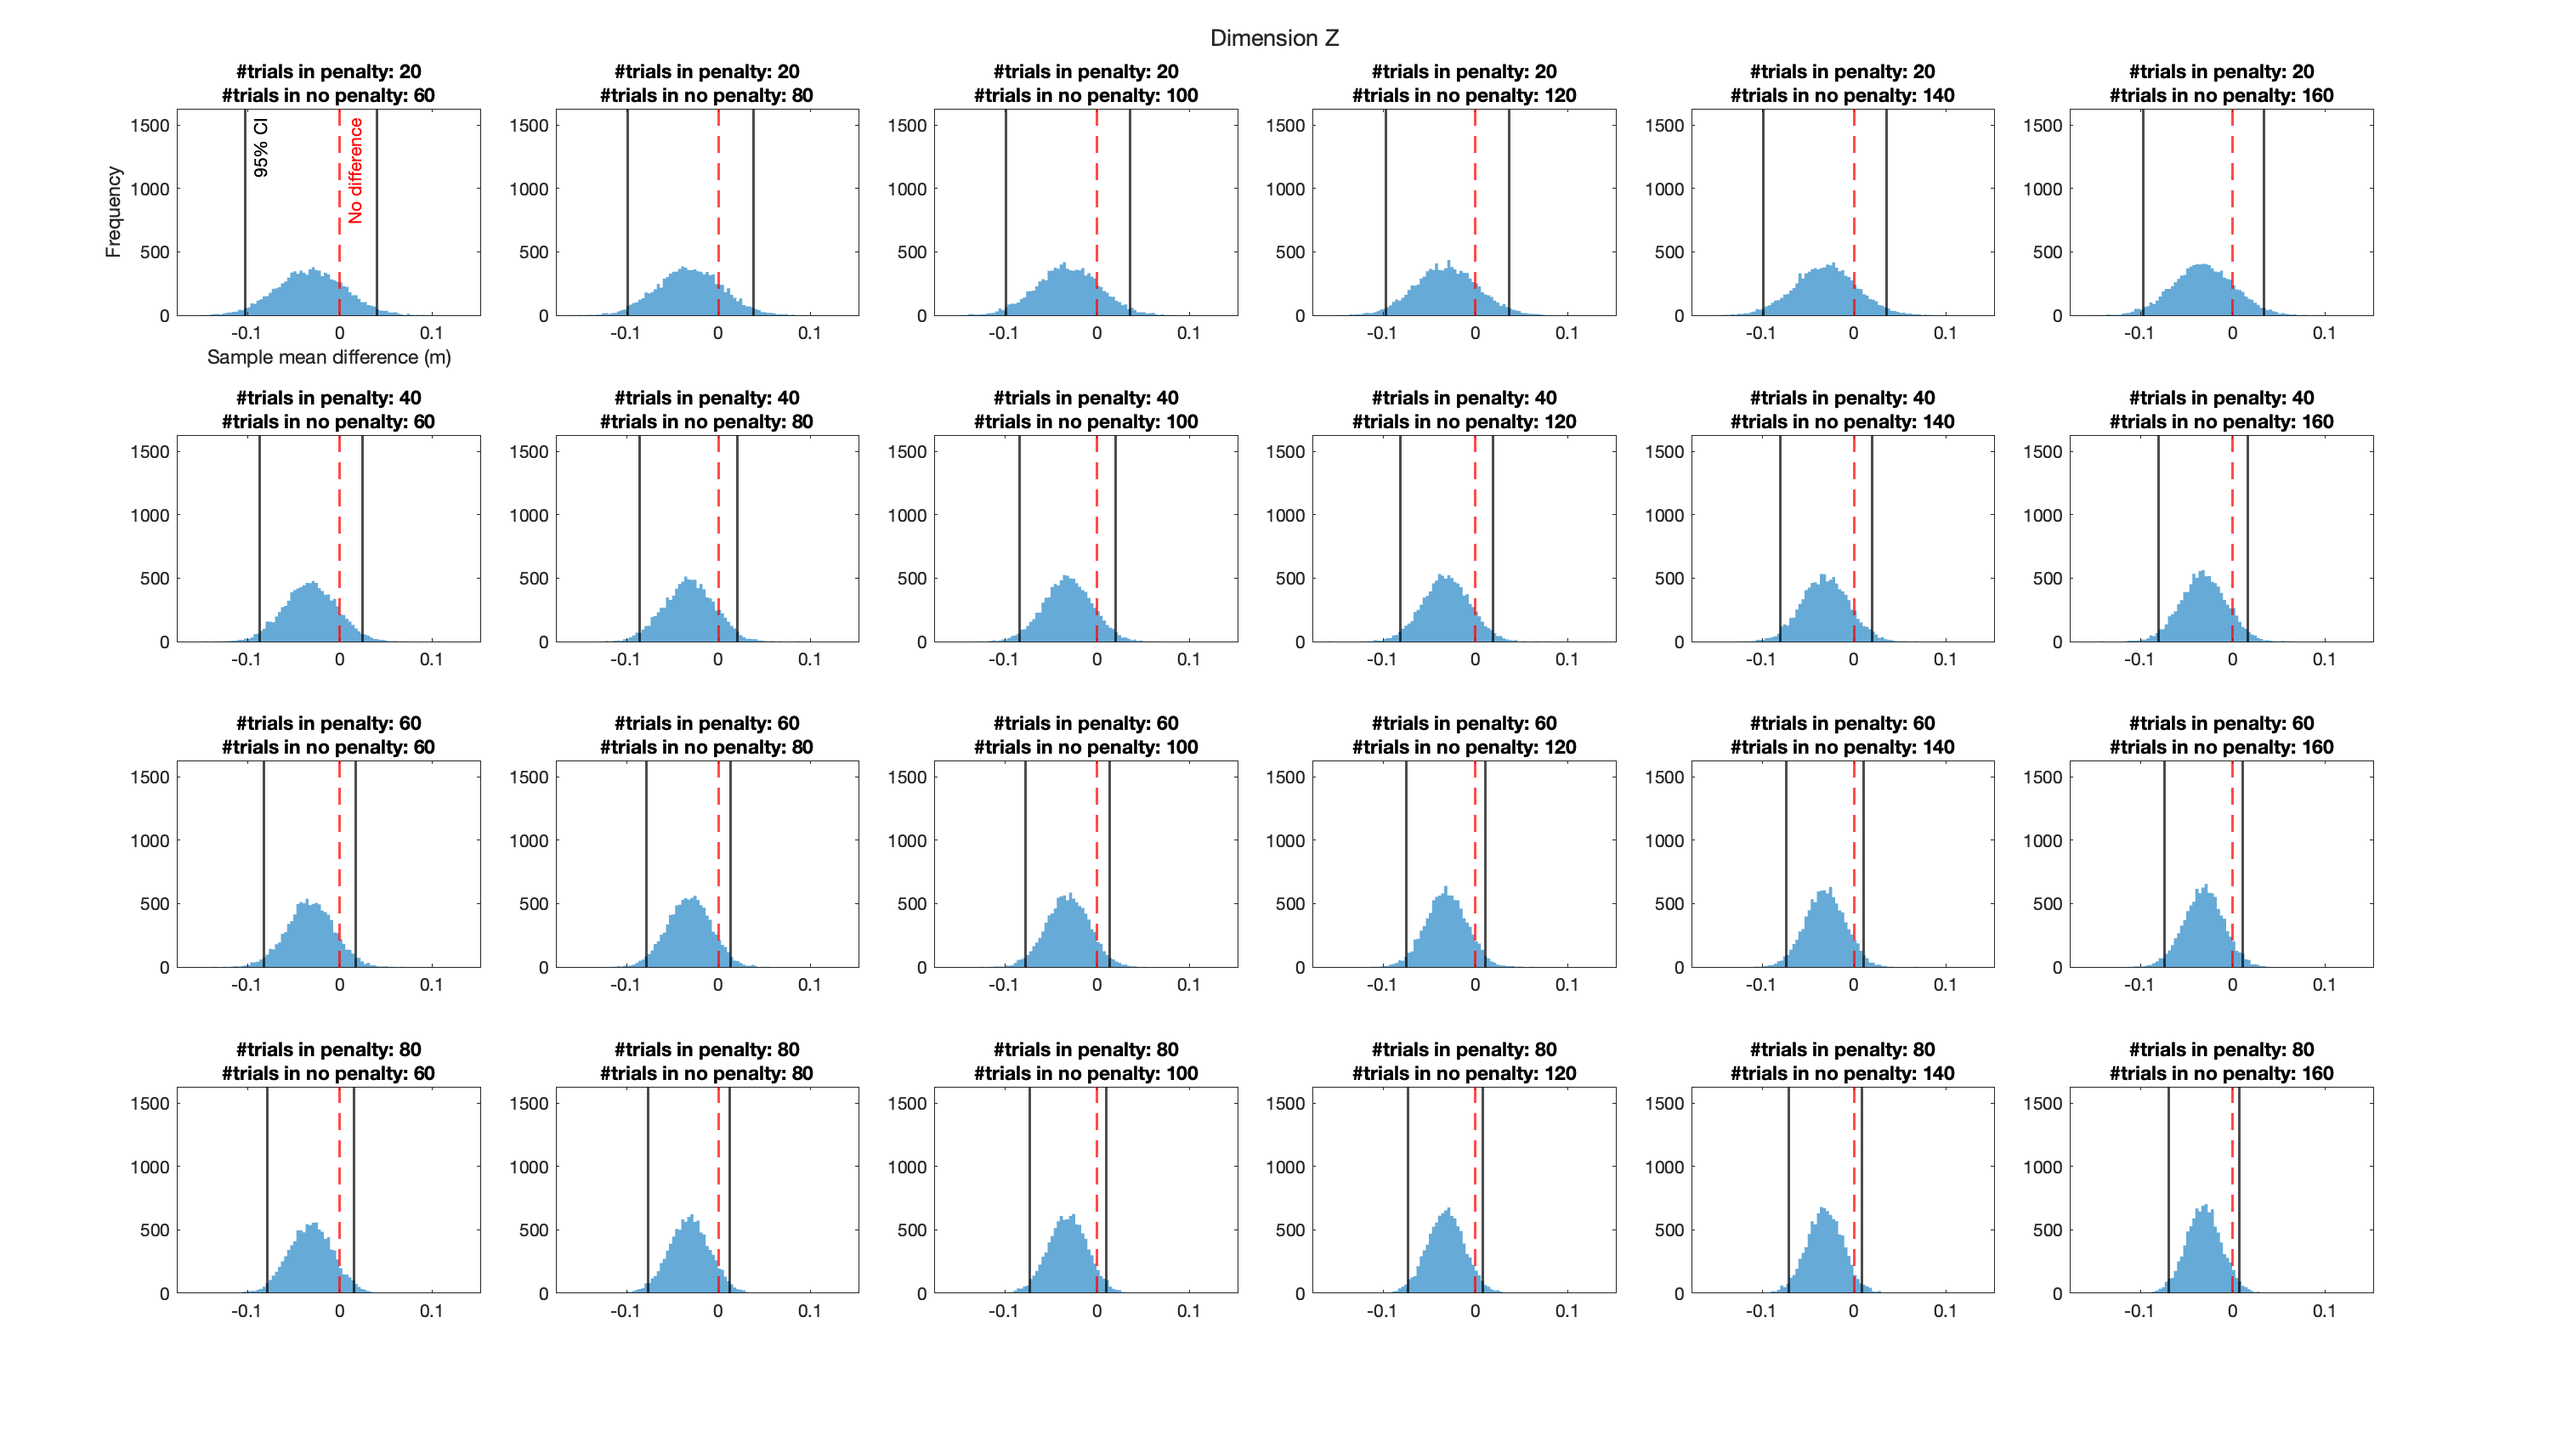
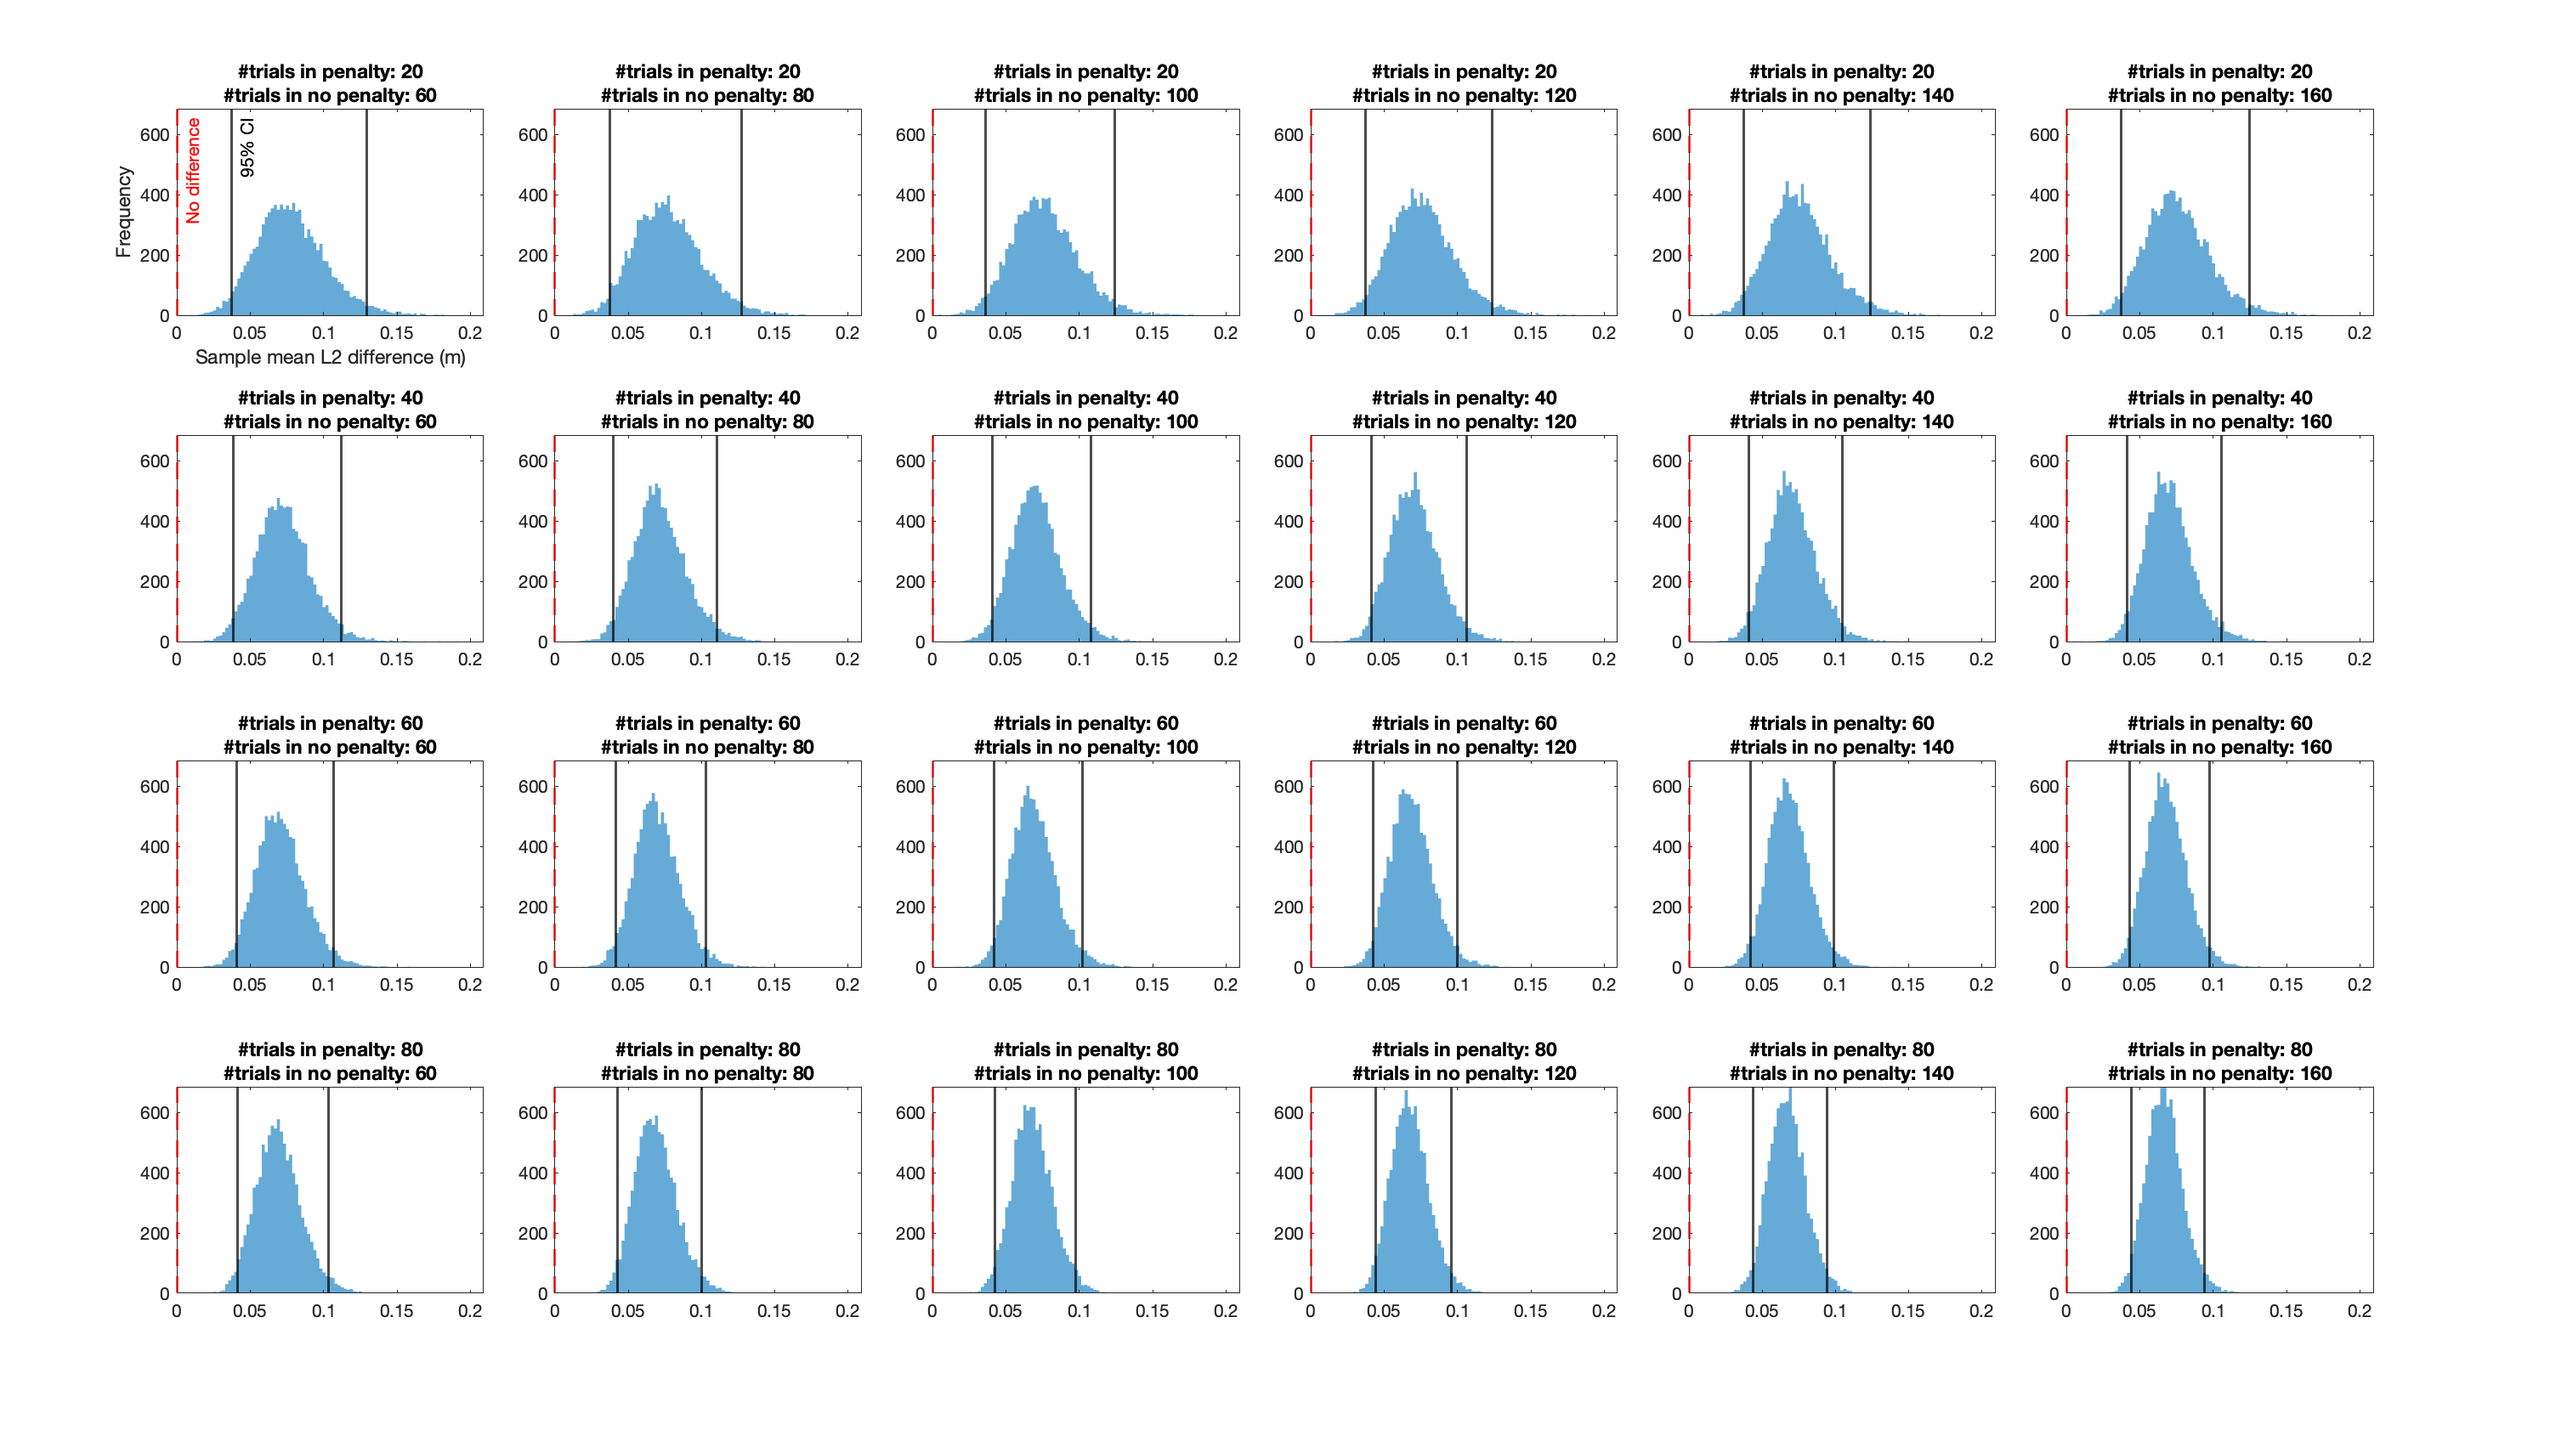
sim L2 distance

diff --git a/simulation/predict_ntrials.m b/simulation/predict_ntrials.m
@@ -92,8 +92,8 @@ np_ntrials = 60:20:160; % numbers of trials of no-penalty condition
 %%%%%%%%%%%%%%%%%%%%%%%%%%% Set up for simulation %%%%%%%%%%%%%%%%%%%%%%%%%%%
 opt_aim = model.target_coor + best_p;
 
-sample_mean_diff = nan(length(p_ntrials), length(np_ntrials), sim_ntrial, 3); 
-CI_95 = nan(length(p_ntrials), length(np_ntrials), 2, 3);
+sample_mean_diff = nan(length(p_ntrials), length(np_ntrials), sim_ntrial); 
+CI_95 = nan(length(p_ntrials), length(np_ntrials), 2);
 for mm = 1:length(p_ntrials)
     model.penalty_ntrial = p_ntrials(mm);
 
@@ -109,14 +109,12 @@ for mm = 1:length(p_ntrials)
             % Simulate endpoints of no penalty condition
             ep_penalty = mvnrnd(opt_aim, M.empirical_cov, M.no_penalty_ntrial);
 
-            % Calculate sample mean difference
-            sample_mean_diff(mm,nn,tt,:) = mean(ep_penalty) - mean(ep_nopenalty);
+            % Calculate sample mean euclidean distance difference
+            sample_mean_diff(mm,nn,tt) = sqrt(sum((mean(ep_penalty, 1) - mean(ep_nopenalty, 1)).^2));
         end
 
-        for dd = 1:3
-            % Calculate 95% confidence interval for each dimension
-            CI_95(mm, nn, :, dd) = prctile(squeeze(sample_mean_diff(mm,nn,:,dd)), [2.5, 97.5]);
-        end
+        % Calculate 95% confidence interval
+        CI_95(mm, nn, :) = prctile(sample_mean_diff(mm,nn,:), [2.5, 97.5]);
         
     end
 end
@@ -127,8 +125,9 @@ end
 % Use the same x and y limits for all subplots
 all_sample_mean_diff = sample_mean_diff(:);
 edges = linspace(min(all_sample_mean_diff), max(all_sample_mean_diff), 100);
-xmin = min(all_sample_mean_diff);
-xmax = max(all_sample_mean_diff);
+xmin = min(0, min(all_sample_mean_diff));
+xmax = max(max(all_sample_mean_diff),0);
+
 
 % Compute the maximum y-limit across all histograms
 ymax = 0;
@@ -140,18 +139,14 @@ for mm = 1:numel(p_ntrials)
     end
 end
 
-dims = {'X', 'Y', 'Z'};
-for dd = 1:3
-
 figure;
 set(gcf, 'Position', get(0, 'Screensize'));
 tiledlayout(numel(p_ntrials), numel(np_ntrials)); % Penalty x no penalty
-sgtitle(sprintf('Dimension %s', dims{dd}));
 
 for mm = 1:numel(p_ntrials)
     for nn = 1:numel(np_ntrials)
         nexttile;
-        h = histogram(squeeze(sample_mean_diff(mm, nn, :, dd)), edges);
+        h = histogram(squeeze(sample_mean_diff(mm, nn, :)), edges);
         h.EdgeColor = 'none';
         xlim([xmin xmax]);
         ylim([0 ymax]);
@@ -159,21 +154,20 @@ for mm = 1:numel(p_ntrials)
 
         % add CI 95%
         if mm == 1 && nn ==1
-            xline(squeeze(CI_95(mm, nn, 1, dd)), 'k-', 'lineWidth',1.5,'label','95% CI');
-            xline(squeeze(CI_95(mm, nn, 2, dd)), 'k-', 'lineWidth',1.5,'handleVisibility','off');
+            xline(squeeze(CI_95(mm, nn, 1)), 'k-', 'lineWidth',1.5,'label','95% CI');
+            xline(squeeze(CI_95(mm, nn, 2)), 'k-', 'lineWidth',1.5,'handleVisibility','off');
             xline(0, 'r--','lineWidth',1.5,'label', 'No difference');
-            xlabel('Sample mean difference (m)');
+            xlabel('Sample mean L2 difference (m)');
             ylabel('Frequency');
             
         else
-            xline(squeeze(CI_95(mm, nn, 1, dd)), 'k-', 'lineWidth',1.5,'handleVisibility','off');
-            xline(squeeze(CI_95(mm, nn, 2, dd)), 'k-', 'lineWidth',1.5,'handleVisibility','off');
+            xline(squeeze(CI_95(mm, nn, 1)), 'k-', 'lineWidth',1.5,'handleVisibility','off');
+            xline(squeeze(CI_95(mm, nn, 2)), 'k-', 'lineWidth',1.5,'handleVisibility','off');
             xline(0, 'r--','lineWidth',1.5,'handleVisibility','off');
         end
     end
 
 end
 
-saveas(gcf, fullfile(out_dir, sprintf('predict_ntrials_%d_%d_%s.png', p_ntrials(end), np_ntrials(end), dims{dd})));
+saveas(gcf, fullfile(out_dir, sprintf('predict_ntrials_%d_%d.png', p_ntrials(end), np_ntrials(end))));
 
-end
